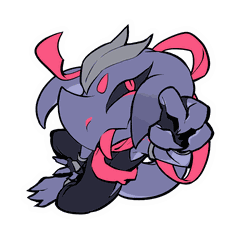
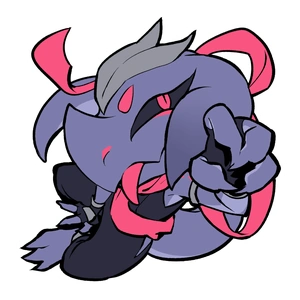
ポートフォリオ追加、軽量化検証

diff --git a/portfolio.html b/portfolio.html
@@ -27,7 +27,7 @@
 <link rel="preconnect" href="https://fonts.gstatic.com" crossorigin>
 <!-- 右下のマスコット(mascot.js が JavaScript で作る画像)を、早めに取得しておく。
      mascot.js の sdImages の先頭と同じパスにしてください -->
-<link rel="preload" as="image" href="img/oc/soboronin/soboronin_sd_01.png">
+<link rel="preload" as="image" href="img/oc/soboronin/soboronin_sd_01.webp" type="image/webp">
 <!-- フォントのCSSは、ページの表示を止めないように、あとから読み込みます(届くまでは代わりのフォントで表示されます)。
      アイコンは、フォントが届くまで隠しておきます(読み込み前は「close」などの文字名が見えてしまうため)。
      新しいアイコンを使うときは、icon_names にその名前を追加してください
@@ -470,6 +470,24 @@
       <span class="art-caption">サムネイル・ロゴ</span>
     </button>
 
+    <button type="button" class="art-card" data-title="VJ用動画" data-category="illust animation video" data-type="video" data-video="DftqxCVUBag" data-thumb="img/works/thumb/worksY01.webp">
+      <span class="art-thumb placeholder">
+        <span class="material-symbols-outlined" aria-hidden="true">movie</span>
+        <span class="style-tags"><span># シンプル</span></span>
+        <span class="play-badge"><span class="material-symbols-outlined" aria-hidden="true">play_arrow</span></span>
+      </span>
+      <span class="art-caption">VJ用動画</span>
+    </button>
+
+    <button type="button" class="art-card" data-title="VJ用動画" data-category="illust animation live2d video" data-type="video" data-video="Br2RGVxlX0c" data-thumb="img/works/thumb/worksY02.webp">
+      <span class="art-thumb placeholder">
+        <span class="material-symbols-outlined" aria-hidden="true">movie</span>
+        <span class="style-tags"><span># シンプル</span></span>
+        <span class="play-badge"><span class="material-symbols-outlined" aria-hidden="true">play_arrow</span></span>
+      </span>
+      <span class="art-caption">VJ用動画</span>
+    </button>
+
     <button type="button" class="art-card" data-title="【Live2D Showcase】イザナミ アヌ 様" data-category="live2d video" data-type="video" data-video="w8j3V52Lm0I?si=2Os0qaG7NNkBRXSq">
       <span class="art-thumb placeholder">
         <span class="material-symbols-outlined" aria-hidden="true">movie</span>
@@ -710,7 +728,7 @@
 
 <!-- 右下の追従SDイラスト(全キャラからランダム表示) -->
 <div id="mascot" aria-hidden="true"><div class="mascot-inner"></div></div>
-<script src="mascot.js"></script>
+<script src="mascot.js" defer></script>
 
 </body>
 </html>

diff --git a/oc.html b/oc.html
@@ -51,6 +51,7 @@
   <link rel="stylesheet" href="https://fonts.googleapis.com/css2?family=Material+Symbols+Outlined:opsz,wght,FILL,GRAD@24,400,0,0&icon_names=casino,checklist,close,content_copy,edit,favorite,format_align_left,ink_pen,mail,more_horiz,movie,music_note,pause,pets,photo,play_arrow,shuffle,sms,swap_horiz,swords,tv_gen,visibility,visibility_off,web_stories&display=block">
 </noscript>
 <link rel="stylesheet" href="common.css" />
+<script src="oc-data.js" defer></script>
 <style>
   header { margin-bottom: 28px; }
 
@@ -746,7 +747,6 @@
 <!-- 右下の追従SDイラスト(表示中のキャラに連動。ロジックは mascot.js) -->
 <div id="mascot" aria-hidden="true"><div class="mascot-inner"></div></div>
 
-<script src="oc-data.js"></script>
 <script>
   // 最初の描画(FCP)が終わってから実行する。
   // 画像の読み込みを、最初の描画より前に始めてしまうと、他の読み込みと帯域を取り合って、
@@ -776,6 +776,8 @@
 
   // 煙の演出の画像を、最初の描画のあとで読み込み始める(CSSの .smoke-ready)
   window.afterFirstPaint(function () { document.documentElement.classList.add('smoke-ready'); });
+
+  function bootOc() {
 
   // oc-data.js の内容から、世界観ボタン・所属ボタン・キャラクターカードを作る
   // (この後ろのスクリプトは、ここで作られた要素を使って動きます)
@@ -1504,13 +1506,30 @@
       .filter(card => card.style.display !== 'none' && card.dataset.sd)
       .flatMap(card => card.dataset.sd.split(',').map(s => s.trim()).filter(Boolean));
   };
-</script>
 
-<script>
-  // カードの準備ができた印(リストの場所の確保を解除する)。上のスクリプトが途中で失敗しても、必ず実行される
-  document.getElementById('ocList').classList.add('is-ready');
+  } // bootOc の終わり
+
+  (function () {
+    var started = false;
+    function start() {
+      if (started) return;
+      started = true;
+      try {
+        bootOc();
+      } finally {
+        document.getElementById('ocList').classList.add('is-ready');
+        if (window.updateMascot) window.updateMascot();
+      }
+    }
+    function schedule() {
+      requestAnimationFrame(function () { setTimeout(start, 0); });
+      setTimeout(start, 500);
+    }
+    if (document.readyState === 'loading') document.addEventListener('DOMContentLoaded', schedule);
+    else schedule();
+  })();
 </script>
-<script src="mascot.js"></script>
+<script src="mascot.js" defer></script>
 
 </body>
 </html>

diff --git a/mascot.js b/mascot.js
@@ -3,15 +3,15 @@
 // ▼SDイラストの追加方法▼
 // 下の配列にパスを追加してください(img/oc/キャラ名/ フォルダに画像を置く想定)
 const sdImages = [
-  'img/oc/soboronin/soboronin_sd_01.png',
-  // 'img/oc/soboronin/soboronin_sd_02.png',
+  'img/oc/soboronin/soboronin_sd_01.webp',
+  // 'img/oc/soboronin/soboronin_sd_02.webp',
 ];
 
 // ▼ページ側で候補を差し替えたい場合(oc.html のキャラ連動など)▼
 // window.mascotGetPool = () => ['画像パス', ...]; を定義しておくと、上の配列の代わりに使われます。
 // 世界観の切り替えなどで選び直したいときは window.updateMascot() を呼んでください。
 
-document.addEventListener('DOMContentLoaded', function () {
+function initMascot() {
   const mascotEl = document.getElementById('mascot');
   const mascotInner = document.querySelector('#mascot .mascot-inner');
   if (!mascotEl || !mascotInner) return;
@@ -45,6 +45,10 @@ document.addEventListener('DOMContentLoaded', function () {
       const img = document.createElement('img');
       img.src = pick;
       img.alt = ''; // 装飾なので読み上げない
+      // .webp が無いとき(まだ置いていないとき)は、同じ名前の .png を探す
+      img.addEventListener('error', function () {
+        if (/\.webp$/.test(img.src)) img.src = img.src.replace(/\.webp$/, '.png');
+      });
       img.width = 100; // 表示サイズはCSSで決まる。読み込み前に場所を確保するための指定
       img.height = 100;
       mascotInner.appendChild(img);
@@ -74,4 +78,8 @@ document.addEventListener('DOMContentLoaded', function () {
     );
     observer.observe(footerEl);
   }
-});
+}
+
+// defer / async で読み込まれても動くように、読み込み済みなら、すぐ始める
+if (document.readyState === 'loading') document.addEventListener('DOMContentLoaded', initMascot);
+else initMascot();

diff --git a/index.html b/index.html
@@ -27,7 +27,7 @@
 <link rel="preconnect" href="https://fonts.gstatic.com" crossorigin>
 <!-- 右下のマスコット(mascot.js が JavaScript で作る画像)を、早めに取得しておく。
      mascot.js の sdImages の先頭と同じパスにしてください -->
-<link rel="preload" as="image" href="img/oc/soboronin/soboronin_sd_01.png">
+<link rel="preload" as="image" href="img/oc/soboronin/soboronin_sd_01.webp" type="image/webp">
 <!-- フォントのCSSは、ページの表示を止めないように、あとから読み込みます(届くまでは代わりのフォントで表示されます)。
      アイコンは、フォントが届くまで隠しておきます(読み込み前は「close」などの文字名が見えてしまうため)。
      新しいアイコンを使うときは、icon_names にその名前を追加してください
@@ -431,7 +431,7 @@
 
 <!-- 右下の追従SDイラスト(全キャラからランダム表示) -->
 <div id="mascot" aria-hidden="true"><div class="mascot-inner"></div></div>
-<script src="mascot.js"></script>
+<script src="mascot.js" defer></script>
 
 </body>
 </html>

diff --git a/tools.html b/tools.html
@@ -27,7 +27,7 @@
 <link rel="preconnect" href="https://fonts.gstatic.com" crossorigin>
 <!-- 右下のマスコット(mascot.js が JavaScript で作る画像)を、早めに取得しておく。
      mascot.js の sdImages の先頭と同じパスにしてください -->
-<link rel="preload" as="image" href="img/oc/soboronin/soboronin_sd_01.png">
+<link rel="preload" as="image" href="img/oc/soboronin/soboronin_sd_01.webp" type="image/webp">
 <!-- フォントのCSSは、ページの表示を止めないように、あとから読み込みます(届くまでは代わりのフォントで表示されます)。
      アイコンは、フォントが届くまで隠しておきます(読み込み前は「close」などの文字名が見えてしまうため)。
      新しいアイコンを使うときは、icon_names にその名前を追加してください
@@ -246,7 +246,7 @@
 
 <!-- 右下の追従SDイラスト(全キャラからランダム表示) -->
 <div id="mascot" aria-hidden="true"><div class="mascot-inner"></div></div>
-<script src="mascot.js"></script>
+<script src="mascot.js" defer></script>
 
 </body>
 </html>

diff --git a/404.html b/404.html
@@ -38,7 +38,7 @@
 <link rel="preconnect" href="https://fonts.gstatic.com" crossorigin>
 <!-- 右下のマスコット(mascot.js が JavaScript で作る画像)を、早めに取得しておく。
      mascot.js の sdImages の先頭と同じパスにしてください -->
-<link rel="preload" as="image" href="img/oc/soboronin/soboronin_sd_01.png">
+<link rel="preload" as="image" href="img/oc/soboronin/soboronin_sd_01.webp" type="image/webp">
 <!-- フォントのCSSは、ページの表示を止めないように、あとから読み込みます(届くまでは代わりのフォントで表示されます)。
      アイコンは、フォントが届くまで隠しておきます(読み込み前は「close」などの文字名が見えてしまうため)。
      新しいアイコンを使うときは、icon_names にその名前を追加してください
@@ -132,7 +132,7 @@
 
 <!-- 右下の追従SDイラスト -->
 <div id="mascot" aria-hidden="true"><div class="mascot-inner"></div></div>
-<script src="mascot.js"></script>
+<script src="mascot.js" defer></script>
 
 </body>
 </html>
